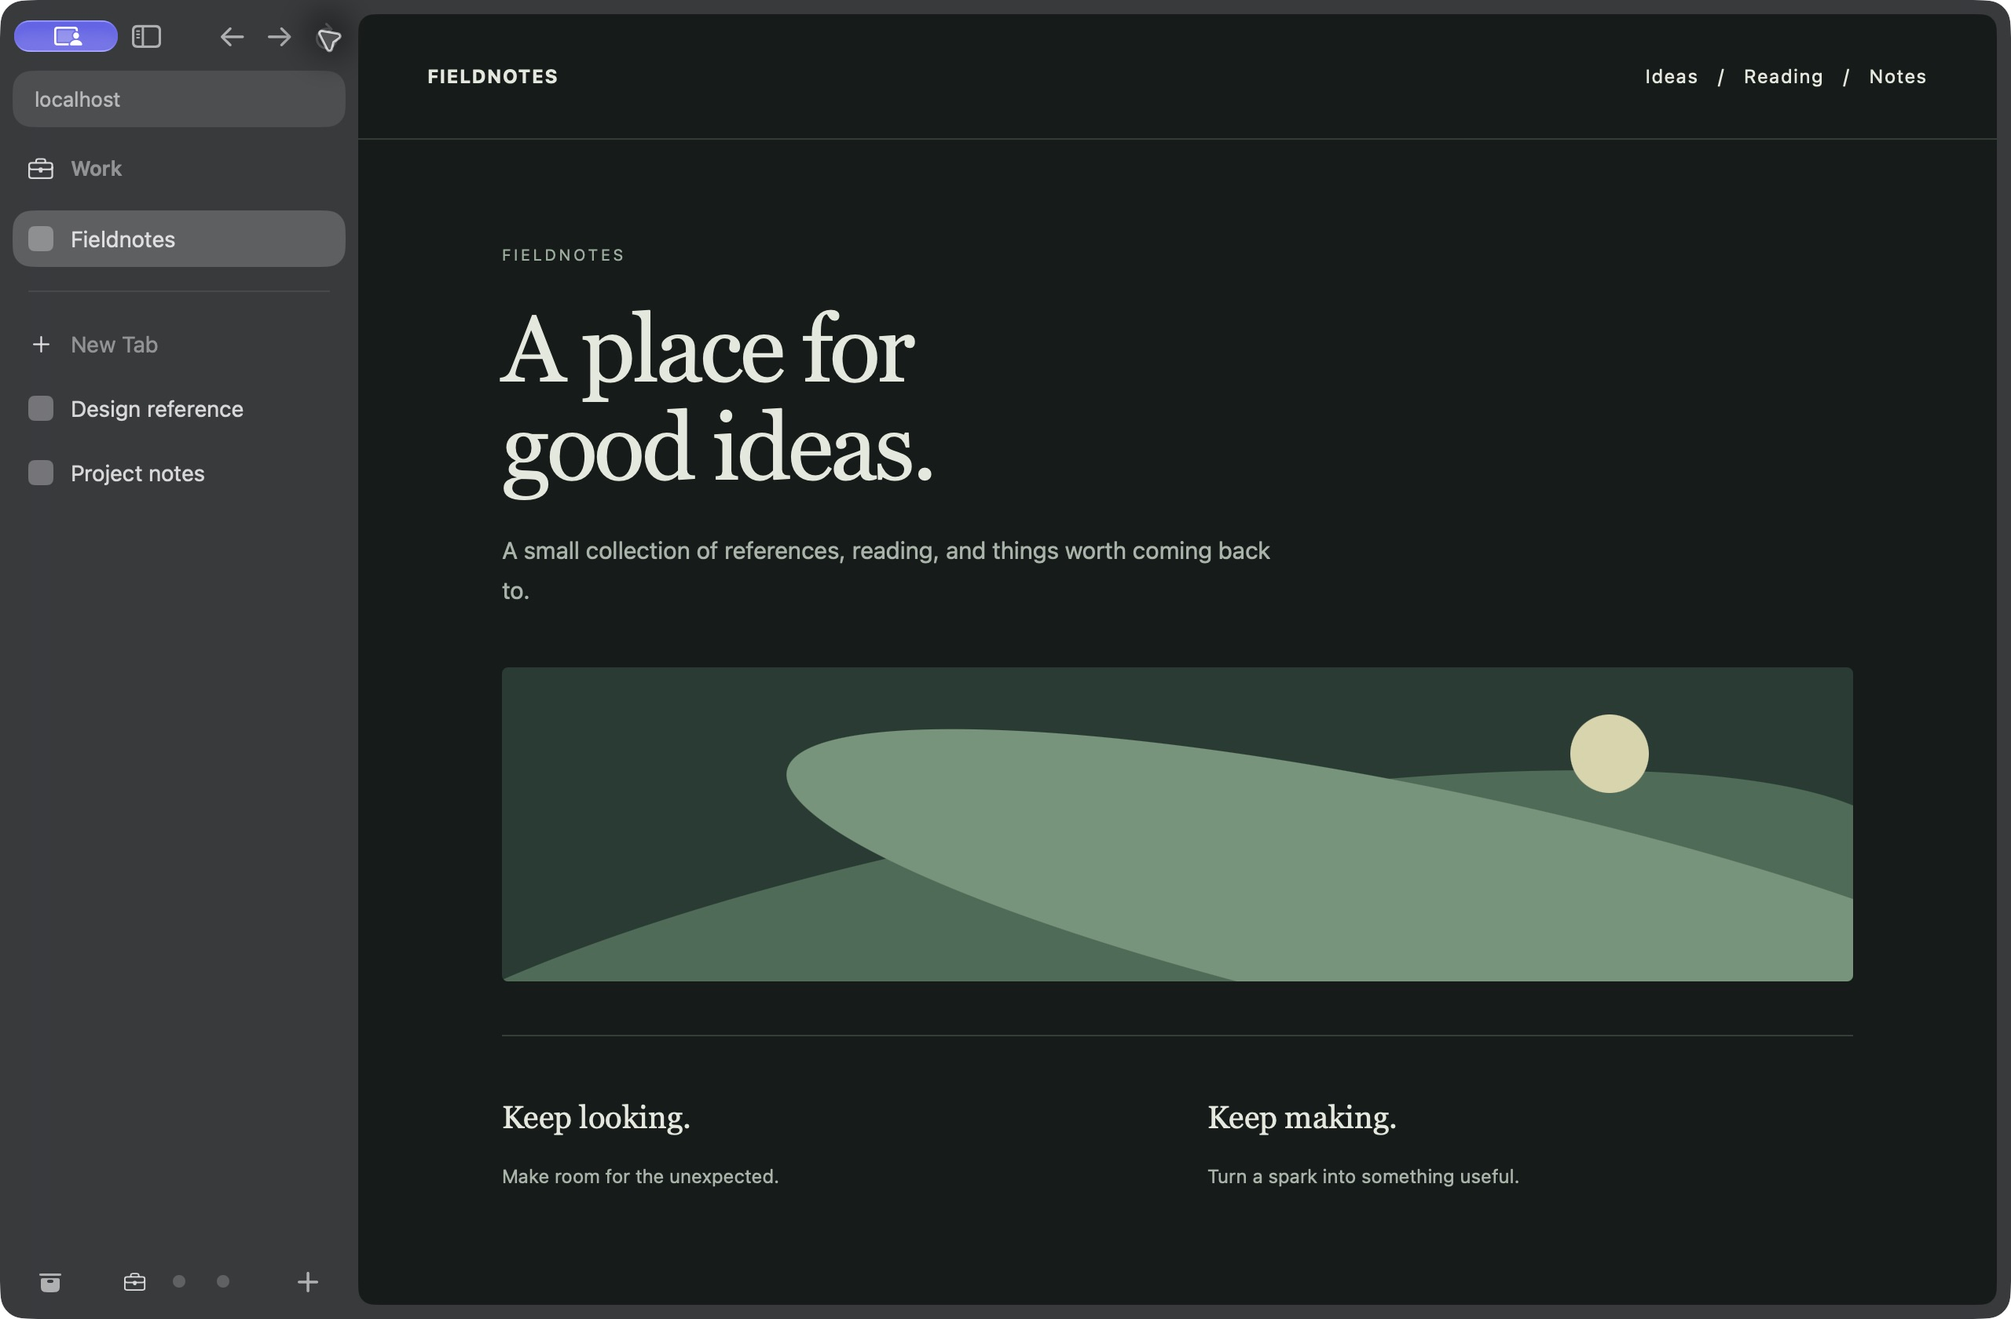
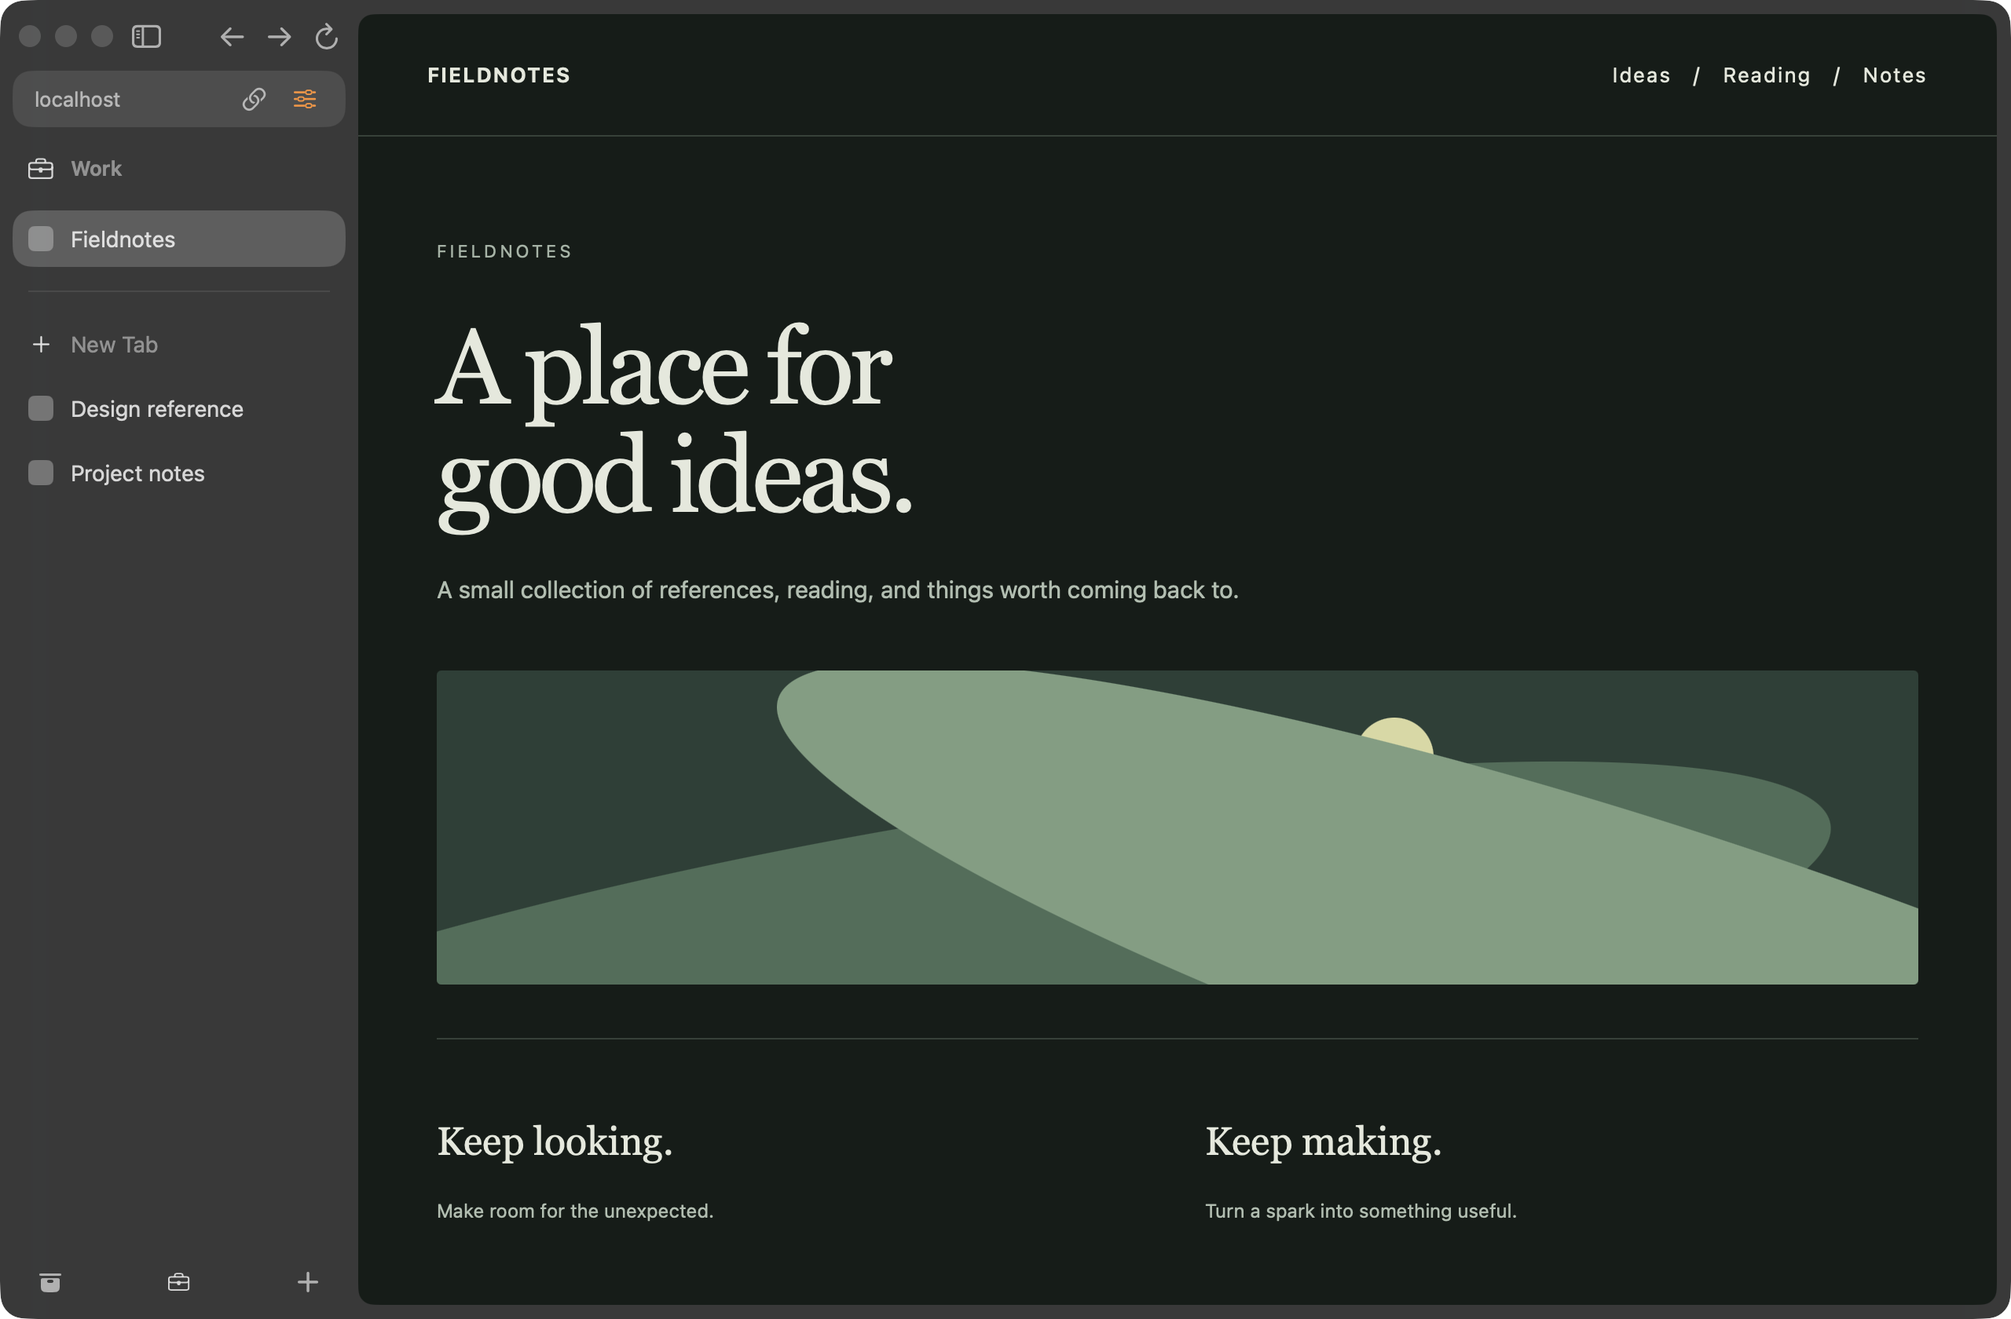
fix: retain complete native window controls in screenshots

diff --git a/docs/features.html b/docs/features.html
@@ -1,4 +1,4 @@
-<!doctype html><html lang="en"><head><meta charset="utf-8"><meta name="viewport" content="width=device-width, initial-scale=1"><title>Features · Vane</title><meta name="description" content="Explore Vane’s Spaces, Split View, command bar, and native macOS browsing features."><link rel="icon" href="icon.png"><link rel="stylesheet" href="styles.css?v=26"><meta name="theme-color" content="#06090d"><script src="space.js?v=6" defer></script></head><body class="inner-page"><a class="skip-link" href="#main-content">Skip to content</a><header class="site-nav">
+<!doctype html><html lang="en"><head><meta charset="utf-8"><meta name="viewport" content="width=device-width, initial-scale=1"><title>Features · Vane</title><meta name="description" content="Explore Vane’s Spaces, Split View, command bar, and native macOS browsing features."><link rel="icon" href="icon.png"><link rel="stylesheet" href="styles.css?v=27"><meta name="theme-color" content="#06090d"><script src="space.js?v=6" defer></script></head><body class="inner-page"><a class="skip-link" href="#main-content">Skip to content</a><header class="site-nav">
   <a class="brand" href="./" aria-label="Vane home"><img src="icon-dark.png" alt="" width="32" height="32"><span class="brand-label">Vane</span></a>
   <nav class="links" aria-label="Main navigation">
     <a href="features.html" aria-current="page">Features</a>
@@ -8,13 +8,13 @@
 </header><main id="main-content"><p class="eyebrow playful-tag">For the delightfully tab-happy.</p><h1 class="hero-title">Lots of tabs.<br><em>Zero juggling.</em></h1><p class="intro">For your work brain, your weekend brain, and your seventeen-tabs-about-one-thing brain.</p>
 <span id="split" aria-hidden="true"></span><div class="tour-controls" id="spaces" role="tablist" aria-label="App screenshots"><button id="tab-spaces" role="tab" aria-selected="true" aria-controls="tour-panel" data-feature="spaces">Spaces</button><button id="tab-split" role="tab" aria-selected="false" aria-controls="tour-panel" tabindex="-1" data-feature="split">Split View</button><button id="tab-little" role="tab" aria-selected="false" aria-controls="tour-panel" tabindex="-1" data-feature="little">Little Vane</button></div>
 <section class="screenshot-tour" id="tour-panel" role="tabpanel" aria-labelledby="tab-spaces" tabindex="0">
-<div class="tour-capture is-active" data-capture="spaces"><div class="app-capture"><img src="media/vane-spaces-dark.png" alt="Vane in dark mode with a Work Space, pinned Fieldnotes tab, and project tabs." width="2560" height="1680" loading="eager" decoding="async"></div></div>
-<div class="tour-capture" data-capture="split" aria-hidden="true"><div class="app-capture"><img src="media/vane-split-dark.png" alt="Vane in dark mode showing Fieldnotes and Project notes side by side in Split View." width="2560" height="1680" loading="eager" decoding="async"></div></div>
-<div class="tour-capture" data-capture="little" aria-hidden="true"><div class="capture-composition"><div class="app-capture"><img src="media/vane-spaces-dark.png" alt="Vane in dark mode with a Work Space, pinned Fieldnotes tab, and project tabs." width="2560" height="1680" loading="eager" decoding="async"></div><div class="capture-floating"><div class="app-capture app-capture-little"><img src="media/vane-little-dark.png" alt="A real Little Vane window in dark mode showing the Reading list page." width="2000" height="1400" loading="eager" decoding="async"></div></div></div></div>
+<div class="tour-capture is-active" data-capture="spaces"><div class="app-capture"><img src="media/vane-spaces-dark.png?v=2" alt="Vane in dark mode with a Work Space, pinned Fieldnotes tab, and project tabs." width="2560" height="1680" loading="eager" decoding="async"></div></div>
+<div class="tour-capture" data-capture="split" aria-hidden="true"><div class="app-capture"><img src="media/vane-split-dark.png?v=2" alt="Vane in dark mode showing Fieldnotes and Project notes side by side in Split View." width="2560" height="1680" loading="eager" decoding="async"></div></div>
+<div class="tour-capture" data-capture="little" aria-hidden="true"><div class="capture-composition"><div class="app-capture"><img src="media/vane-spaces-dark.png?v=2" alt="Vane in dark mode with a Work Space, pinned Fieldnotes tab, and project tabs." width="2560" height="1680" loading="eager" decoding="async"></div><div class="capture-floating"><div class="app-capture app-capture-little"><img src="media/vane-little-dark.png?v=2" alt="A real Little Vane window in dark mode showing the Reading list page." width="2000" height="1400" loading="eager" decoding="async"></div></div></div></div>
 </section>
 <p class="tour-explanation" id="tour-explanation" aria-live="polite">A Work Space keeps pinned pages and project tabs together, with Personal and Explore a click away.</p><p class="preview-caption">Captured in Vane · Dark mode · Example browsing content</p>
-<section class="feature-scene paper-scene" id="sidebar"><div class="scene-copy"><span class="scene-number">01 / A place for the pile</span><h2>Tabs with<br>a <em>home.</em></h2><p>Pin the keepers. Fold the folders. Let Today’s tabs be today’s tabs. Your sidebar has room for all of them.</p><a class="scene-link" href="docs.html#sidebar">Get to know the sidebar</a></div><div class="scene-capture"><div class="app-capture"><img src="media/vane-spaces-dark.png" alt="Vane in dark mode with a Work Space, pinned Fieldnotes tab, and project tabs." width="2560" height="1680" loading="eager" decoding="async"></div></div></section>
-<section class="feature-scene navy-scene" id="little"><div class="scene-capture"><div class="capture-composition"><div class="app-capture"><img src="media/vane-spaces-dark.png" alt="Vane in dark mode with a Work Space, pinned Fieldnotes tab, and project tabs." width="2560" height="1680" loading="eager" decoding="async"></div><div class="capture-floating"><div class="app-capture app-capture-little"><img src="media/vane-little-dark.png" alt="A real Little Vane window in dark mode showing the Reading list page." width="2000" height="1400" loading="eager" decoding="async"></div></div></div></div><div class="scene-copy"><span class="scene-number">02 / A tiny detour</span><h2>A little window.<br>A big <em>convenience.</em></h2><p>Open a link in Little Vane, take a quick look, then move it to your main window when it deserves a longer stay.</p><a class="scene-link" href="docs.html#little">Meet Little Vane</a></div></section>
+<section class="feature-scene paper-scene" id="sidebar"><div class="scene-copy"><span class="scene-number">01 / A place for the pile</span><h2>Tabs with<br>a <em>home.</em></h2><p>Pin the keepers. Fold the folders. Let Today’s tabs be today’s tabs. Your sidebar has room for all of them.</p><a class="scene-link" href="docs.html#sidebar">Get to know the sidebar</a></div><div class="scene-capture"><div class="app-capture"><img src="media/vane-spaces-dark.png?v=2" alt="Vane in dark mode with a Work Space, pinned Fieldnotes tab, and project tabs." width="2560" height="1680" loading="eager" decoding="async"></div></div></section>
+<section class="feature-scene navy-scene" id="little"><div class="scene-capture"><div class="capture-composition"><div class="app-capture"><img src="media/vane-spaces-dark.png?v=2" alt="Vane in dark mode with a Work Space, pinned Fieldnotes tab, and project tabs." width="2560" height="1680" loading="eager" decoding="async"></div><div class="capture-floating"><div class="app-capture app-capture-little"><img src="media/vane-little-dark.png?v=2" alt="A real Little Vane window in dark mode showing the Reading list page." width="2000" height="1400" loading="eager" decoding="async"></div></div></div></div><div class="scene-copy"><span class="scene-number">02 / A tiny detour</span><h2>A little window.<br>A big <em>convenience.</em></h2><p>Open a link in Little Vane, take a quick look, then move it to your main window when it deserves a longer stay.</p><a class="scene-link" href="docs.html#little">Meet Little Vane</a></div></section>
 <section class="feature-scene paper-scene live-summary" id="live"><div class="scene-copy"><span class="scene-number">03 / Let the folder do it</span><h2>Some tabs<br><em>find you.</em></h2><p>Live Folders bring your GitHub pull requests into the sidebar. They refresh as work opens, changes, and closes.</p><a class="scene-link" href="docs.html#live">How Live Folders work</a></div></section>
 <section class="more-features"><div class="section-intro"><span class="eyebrow">AND THE LITTLE THINGS, TOO</span><h2 class="section-heading">There’s more<br>where that came from.</h2></div><div class="feature-mosaic">
 <article class="mosaic-card wide"><div class="shortcut-stack" aria-hidden="true"><kbd>⌘ T</kbd><kbd>⌘ L</kbd><kbd>⇧ ⌘ P</kbd></div><h3>Good with your hands.</h3><p>A command palette, a tab switcher, familiar Mac shortcuts, and rebindable controls. Go from thought to tab.</p><a href="docs.html#shortcuts">Every keyboard shortcut</a></article>

diff --git a/docs/index.html b/docs/index.html
@@ -6,7 +6,7 @@
 <title>Vane · A native Mac browser</title>
 <meta name="description" content="Vane is a native macOS browser in the shape of Arc: sidebar tabs, Spaces, splits, Little Vane windows, and Live Folders.">
 <link rel="icon" href="icon.png">
-<link rel="stylesheet" href="styles.css?v=26">
+<link rel="stylesheet" href="styles.css?v=27">
 
 <meta name="theme-color" content="#06090d">
 <script src="space.js?v=13" defer></script>
@@ -59,9 +59,9 @@
       <div class="product-stage" aria-hidden="true">
         <div class="product-shell journey-window screenshot-shell" role="img" aria-label="Vane app screenshots in dark mode">
           <div class="product-pages">
-            <div class="product-page" data-product="1"><div class="capture-setting"><div class="app-capture"><img src="media/vane-spaces-dark.png" alt="Vane in dark mode with a Work Space, pinned Fieldnotes tab, and project tabs." width="2560" height="1680" loading="eager" decoding="async"></div></div></div>
-            <div class="product-page" data-product="2"><div class="capture-setting"><div class="app-capture"><img src="media/vane-split-dark.png" alt="Vane in dark mode showing Fieldnotes and Project notes side by side in Split View." width="2560" height="1680" loading="eager" decoding="async"></div></div></div>
-            <div class="product-page" data-product="3"><div class="capture-setting"><div class="capture-composition"><div class="app-capture"><img src="media/vane-spaces-dark.png" alt="Vane in dark mode with a Work Space, pinned Fieldnotes tab, and project tabs." width="2560" height="1680" loading="eager" decoding="async"></div><div class="capture-floating"><div class="app-capture app-capture-little"><img src="media/vane-little-dark.png" alt="A real Little Vane window in dark mode showing the Reading list page." width="2000" height="1400" loading="eager" decoding="async"></div></div></div></div></div>
+            <div class="product-page" data-product="1"><div class="capture-setting"><div class="app-capture"><img src="media/vane-spaces-dark.png?v=2" alt="Vane in dark mode with a Work Space, pinned Fieldnotes tab, and project tabs." width="2560" height="1680" loading="eager" decoding="async"></div></div></div>
+            <div class="product-page" data-product="2"><div class="capture-setting"><div class="app-capture"><img src="media/vane-split-dark.png?v=2" alt="Vane in dark mode showing Fieldnotes and Project notes side by side in Split View." width="2560" height="1680" loading="eager" decoding="async"></div></div></div>
+            <div class="product-page" data-product="3"><div class="capture-setting"><div class="capture-composition"><div class="app-capture"><img src="media/vane-spaces-dark.png?v=2" alt="Vane in dark mode with a Work Space, pinned Fieldnotes tab, and project tabs." width="2560" height="1680" loading="eager" decoding="async"></div><div class="capture-floating"><div class="app-capture app-capture-little"><img src="media/vane-little-dark.png?v=2" alt="A real Little Vane window in dark mode showing the Reading list page." width="2000" height="1400" loading="eager" decoding="async"></div></div></div></div></div>
           </div>
         </div>
       </div>

diff --git a/docs/media/display.html b/docs/media/display.html
@@ -4,29 +4,29 @@
 <meta charset="utf-8">
 <meta name="viewport" content="width=device-width,initial-scale=1">
 <title>Vane · App display</title>
-<link rel="stylesheet" href="../styles.css?v=26">
+<link rel="stylesheet" href="../styles.css?v=27">
 <style>body{margin:0;padding:0;background:#20262a}body::before,body::after{display:none}main{margin:0;padding:0;max-width:none}.display-board{height:100svh;display:flex;align-items:center;justify-content:center;--display-padding:clamp(16px,6vw,64px);padding:var(--display-padding) 9vw;background:#20262a}.display-board>div{width:min(100%,900px,calc((100svh - var(--display-padding) - var(--display-padding) - 24px)*1.5))}.display-board[hidden]{display:none}</style>
 </head>
 <body>
 <main>
 <section class="display-board" data-display="spaces">
 <div class="app-capture">
-<img src="vane-spaces-dark.png" alt="Vane Work Space in dark mode" width="2560" height="1680">
+<img src="vane-spaces-dark.png?v=2" alt="Vane Work Space in dark mode" width="2560" height="1680">
 </div>
 </section>
 <section class="display-board" data-display="split" hidden>
 <div class="app-capture">
-<img src="vane-split-dark.png" alt="Vane Split View in dark mode" width="2560" height="1680">
+<img src="vane-split-dark.png?v=2" alt="Vane Split View in dark mode" width="2560" height="1680">
 </div>
 </section>
 <section class="display-board" data-display="little" hidden>
 <div class="capture-composition">
 <div class="app-capture">
-<img src="vane-spaces-dark.png" alt="Vane Work Space in dark mode" width="2560" height="1680">
+<img src="vane-spaces-dark.png?v=2" alt="Vane Work Space in dark mode" width="2560" height="1680">
 </div>
 <div class="capture-floating">
 <div class="app-capture app-capture-little">
-<img src="vane-little-dark.png" alt="Little Vane in dark mode" width="2000" height="1400">
+<img src="vane-little-dark.png?v=2" alt="Little Vane in dark mode" width="2000" height="1400">
 </div>
 </div>
 </div>

diff --git a/docs/styles.css b/docs/styles.css
@@ -910,11 +910,9 @@ body.inner-page {
 .inner-page .space-background { opacity:.8; }
 body.inner-page::after { opacity:.004; }
 
-/* Real app captures: a quiet setting, with the macOS capture strip cropped out.
-   The app's sidebar, page content, proportions, and pixels remain unchanged. */
+/* Full native window captures, including traffic lights and toolbar controls. */
 .app-capture { overflow:hidden; border-radius:10px; background:transparent; box-shadow:0 18px 45px rgba(0,0,0,.3); }
-.app-capture img { display:block; width:100%; height:auto; max-width:none; margin-top:-3.28125%; }
-.app-capture-little img { margin-top:-4.2%; }
+.app-capture img { display:block; width:100%; height:auto; max-width:none; }
 .capture-setting { padding:24px; height:100%; display:flex; align-items:center; background:#20262a; }
 .capture-setting > .app-capture, .capture-setting > .capture-composition { width:100%; }
 .capture-composition { position:relative; padding:0 24px 24px 0; }

diff --git a/docs/media/README.md b/docs/media/README.md
@@ -1,26 +1,29 @@
 # Vane app imagery
 
-The `vane-*-dark.png` files are window captures of the running native
-Vane app on macOS 26, taken on 6 October 2026. They use an isolated demo data folder,
-dark Spaces, and original Fieldnotes example pages. They contain no personal browsing
-data. The example pages are sample website content; the browser UI is Vane itself.
+The `vane-*-dark.png` files are full native window captures of Vane on macOS 27,
+taken on 9 October 2026 from source revision `37abf63`. They use an isolated demo
+data folder, a dark Work Space, and local Fieldnotes example pages. They contain
+no personal browsing data. The example pages are sample website content; the
+browser UI is Vane itself. Developer Mode is disabled for the local demo host.
 
-All screenshots are encoded as actual PNG files. The three native display captures
-previously contained JPEG data despite their filenames; their white outer-corner
-matte is now transparent, including its antialiased fringe. App content, dimensions,
-and all pixels outside that corner matte are preserved. Re-encoding cannot recover
-detail already lost to the original JPEG compression. Historical audit screenshots
-are also re-encoded as PNG, with their decoded pixels unchanged.
+All screenshots are encoded as actual PNG files. The three native captures retain
+the transparent rounded corners provided by macOS. They include the traffic lights
+and toolbar controls, with no top crop, capture indicator, cursor, or white corner
+matte. The traffic lights are captured in their native hover state. App pixels are
+not redrawn or retouched. Historical audit screenshots were re-encoded from their
+previous JPEG data as PNG, with their decoded pixels and dimensions unchanged;
+this cannot recover detail already lost to JPEG compression.
 
-Website layouts crop the top 84 pixels to omit the macOS capture indicator and cursor.
-The rest of each app capture is displayed without redrawing, recoloring, or changing
-its proportions. Little Vane is a separate native window, composited above the
-Work Space capture with CSS.
+Capture a demo window directly with `screencapture -x -o -l <window-id> -t png <output>`.
+`-o` excludes the window shadow; PNG preserves its transparent outer corners.
+Keep the complete window when updating these assets. Website layouts scale each
+capture proportionally and retain the full top controls. Little Vane is a separate
+native window, composited above the Work Space capture with CSS.
 
 `display.html` provides a reusable, plain charcoal setting. Open it with `?view=spaces`,
 `?view=split`, or `?view=little`; the default is Spaces. The `vane-display-*.png`
 exports are rendered from these layouts and can be used in websites, slides, and
-other product displays. Keep the source captures for future crops and layouts.
+other product displays. Keep the source captures for future layouts.
 
 The website uses brief transitions and disables them with Reduce Motion. No generated
 or reconstructed app interface is used in these assets.
